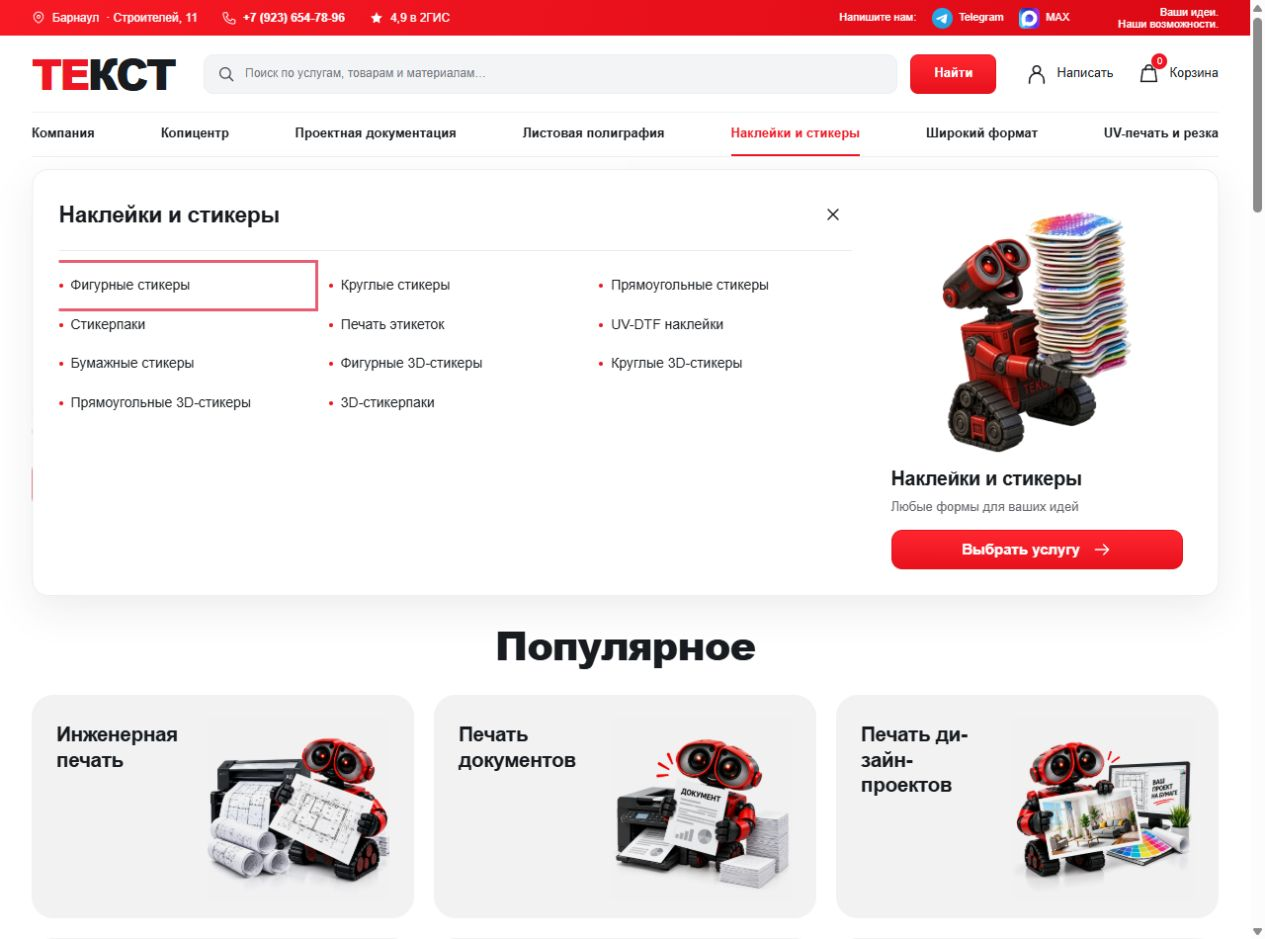
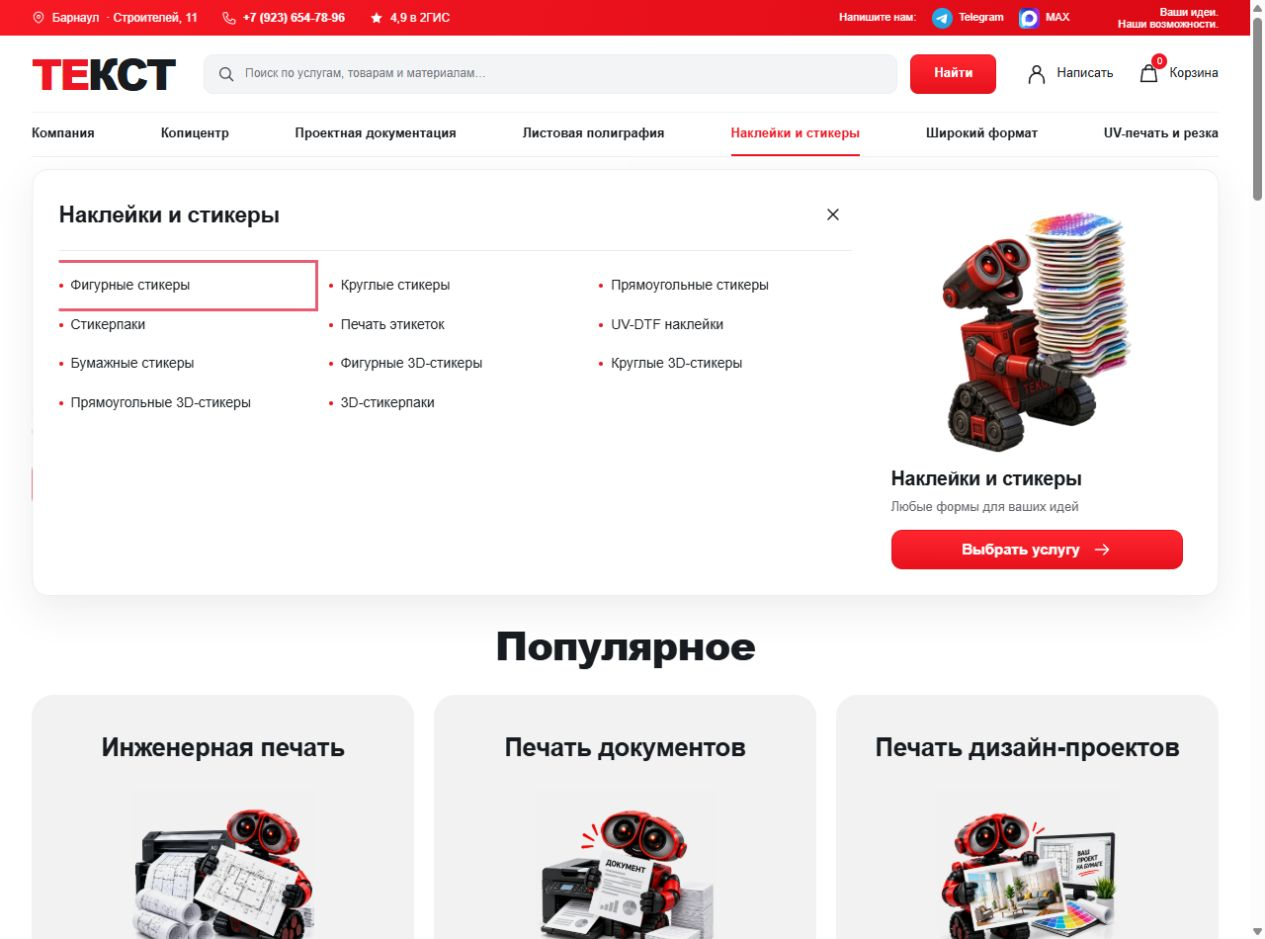
Center larger popular service titles without breaking words

diff --git a/homepage.css b/homepage.css
@@ -192,7 +192,7 @@ footer{background:linear-gradient(120deg,#242829,#1c2021);color:#fff;padding:24p
 .featured-section{margin-top:40px;margin-bottom:34px}
 .featured-section>h2{text-align:center;font-size:40px;letter-spacing:-1px;margin-bottom:28px}
 .featured-grid{display:grid;grid-template-columns:repeat(3,minmax(0,1fr));gap:20px}
-.featured-card{display:grid;grid-template-columns:minmax(0,.42fr) minmax(0,.58fr);gap:6px;align-items:stretch;text-align:left;background:#f2f2f2;border:1px solid transparent;border-radius:22px;height:226px;padding:22px 18px 18px 24px;min-width:0;transition:background .25s,border-color .25s,box-shadow .25s,transform .25s}
+.featured-card{display:grid;grid-template-columns:minmax(0,1fr);grid-template-rows:64px minmax(0,1fr);gap:10px;align-items:stretch;text-align:center;background:#f2f2f2;border:1px solid transparent;border-radius:22px;height:300px;padding:20px;min-width:0;transition:background .25s,border-color .25s,box-shadow .25s,transform .25s}
 .featured-card:focus-visible{background:#fff6f6;border-color:#e8a5ab;box-shadow:0 12px 26px #a52c3014;transform:translateY(-4px)}
 @media(hover:hover){
   .featured-card:hover{background:#fff6f6;border-color:#e8a5ab;box-shadow:0 12px 26px #a52c3014;transform:translateY(-4px)}
@@ -201,9 +201,9 @@ footer{background:linear-gradient(120deg,#242829,#1c2021);color:#fff;padding:24p
 }
 .featured-card:active{transform:translateY(-1px) scale(.985);box-shadow:0 4px 12px #a52c3010}
 .featured-card:focus-visible{outline:3px solid var(--red);outline-offset:4px}
-.featured-copy{display:flex;flex-direction:column;align-items:flex-start;gap:10px;min-width:0;padding-top:4px}
-.featured-name{font-size:21px;line-height:1.2;letter-spacing:-.5px;font-weight:600;overflow-wrap:normal;hyphens:auto}
-.featured-name{transition:color .25s}
+.featured-copy{display:flex;align-items:center;justify-content:center;min-width:0}
+.featured-name{font-size:26px;line-height:1.2;letter-spacing:-.4px;font-weight:700;text-wrap:balance;overflow-wrap:normal;word-break:normal;hyphens:none;transition:color .25s}
+.featured-word{display:inline-block;white-space:nowrap}
 .featured-art{display:block;position:relative;min-width:0;min-height:0;width:100%;padding:0}
 .featured-art img{position:absolute;inset:0;display:block;object-fit:contain;object-position:center;width:100%;height:100%;max-height:100%;mix-blend-mode:multiply;transition:transform .3s}
 .featured-card:focus-visible .featured-art img{transform:translateY(-2px) scale(1.045) rotate(-1.5deg)}
@@ -213,8 +213,8 @@ footer{background:linear-gradient(120deg,#242829,#1c2021);color:#fff;padding:24p
 .service-summary .dialog-intro{margin-bottom:0}
 @media(max-width:1150px){
   .hero-art{height:390px}
-  .featured-card{height:220px;padding:20px 14px 16px 21px;gap:3px}
-  .featured-name{font-size:19px}
+  .featured-card{height:288px;padding:18px}
+  .featured-name{font-size:24px}
   .featured-grid{gap:16px}
   .calculator-art{height:220px}
 }
@@ -222,8 +222,8 @@ footer{background:linear-gradient(120deg,#242829,#1c2021);color:#fff;padding:24p
   .hero-art{height:350px}
   .featured-section>h2{font-size:34px}
   .featured-grid{grid-template-columns:repeat(2,minmax(0,1fr))}
-  .featured-card{height:216px;padding:22px 18px 18px 24px}
-  .featured-name{font-size:21px}
+  .featured-card{height:300px;padding:20px}
+  .featured-name{font-size:26px}
   .calculator-art{height:200px}
   .calculator-banner{min-height:220px}
 }
@@ -233,8 +233,8 @@ footer{background:linear-gradient(120deg,#242829,#1c2021);color:#fff;padding:24p
   .featured-section{margin-top:30px;margin-bottom:26px}
   .featured-section>h2{font-size:30px;margin-bottom:20px}
   .featured-grid{grid-template-columns:1fr;gap:14px}
-  .featured-card{grid-template-columns:minmax(0,.42fr) minmax(0,.58fr);height:204px;padding:21px 17px 17px 22px;border-radius:20px;gap:4px}
-  .featured-name{font-size:20px}
+  .featured-card{height:286px;padding:18px;border-radius:20px;gap:8px}
+  .featured-name{font-size:25px}
   .calculator-banner{display:grid;grid-template-columns:58% minmax(0,42%);min-height:0}
   .calculator-copy{padding:20px 0 20px 17px}
   .calculator-copy h2{font-size:22px;overflow-wrap:normal;hyphens:auto}
@@ -254,8 +254,8 @@ footer{background:linear-gradient(120deg,#242829,#1c2021);color:#fff;padding:24p
   .topbar-socials .messenger-logo{width:18px;height:18px}
 }
 @media(max-width:360px){
-  .featured-card{height:190px;padding:18px 12px 14px 17px}
-  .featured-name{font-size:18px}
+  .featured-card{height:270px;padding:16px;grid-template-rows:56px minmax(0,1fr)}
+  .featured-name{font-size:23px}
   .calculator-copy h2{font-size:19px}
   .calculator-lead{font-size:12px}
   .calculator-copy>p:not(.calculator-lead){font-size:11px}

diff --git a/app.js b/app.js
@@ -113,7 +113,7 @@
   $('#header').addEventListener('focusout',event=>{if(!$('#header').contains(event.relatedTarget))menuCloseTimer=setTimeout(closeMenu,220);});
   $('#footer-services').innerHTML=categories.map(c=>`<button data-action="catalog" data-category="${escape(c.name)}">${escape(c.name)}</button>`).join('');
   function renderPopular() {
-    $('#popular-grid').innerHTML=popular.filter(p=>p.record).map(p=>`<button class="featured-card" data-service="${p.id}" aria-label="${escape(p.name)}"><span class="featured-copy"><span class="featured-name">${escape(p.name)}</span></span><span class="featured-art"><img src="${imageFor(p.record)}" alt="${escape(p.name)} — иллюстрация студии ТЕКСТ" width="720" height="720" loading="lazy"></span></button>`).join('');
+    $('#popular-grid').innerHTML=popular.filter(p=>p.record).map(p=>`<button class="featured-card" data-service="${p.id}" aria-label="${escape(p.name)}"><span class="featured-copy"><span class="featured-name">${p.name.split(/\s+/).map(word=>`<span class="featured-word">${escape(word)}</span>`).join(' ')}</span></span><span class="featured-art"><img src="${imageFor(p.record)}" alt="${escape(p.name)} — иллюстрация студии ТЕКСТ" width="720" height="720" loading="lazy"></span></button>`).join('');
   }
   function renderCatalogList(query='',category='') {
     const normalized=query.toLowerCase().replaceAll('ё','е').trim();

diff --git a/README.md b/README.md
@@ -2,7 +2,7 @@
 
 Главная страница обновлена 5 октября 2026 по выбранному пользователем референсу `Пример для категории - Наклейки и стикеры1.png`. Оригиналы документов и изображений сохранены без изменений. Предыдущая версия страницы сохранена в `.work/homepage-before-20261005/`.
 
-После уточнения пользователя добавлен раздел «Популярное» по новому примеру: светло-серые горизонтальные карточки, название слева, полная иллюстрация справа. Используются все 12 отдельных изображений из `сайт/раздел популярное/*1.png`. Версия до этого изменения сохранена в `.work/homepage-before-popular/`.
+Раздел «Популярное» использует светло-серые карточки с крупным жирным названием по центру над иллюстрацией. Названия переносятся только между словами, включая сохранение целиком слов с дефисом. Используются все 12 отдельных изображений из `сайт/раздел популярное/*1.png`. Версия до добавления этого раздела сохранена в `.work/homepage-before-popular/`.
 
 Последнее уточнение: «Популярные направления» удалены, оставлен только новый раздел «Популярное». Первый экран использует `assets/hero-screenshot.webp` — отдельную иллюстрацию, воссозданную встроенным image_gen по скриншоту пользователя с роботом, листом «Большие идеи начинаются с печати» и коробкой. В калькуляторах оставлены заголовок, одна короткая строка и кнопка расчёта визиток. Версия перед этими правками находится в `.work/homepage-before-cleanup/`.
 
@@ -60,6 +60,8 @@ npm run dev
 Для нового раздела дополнительно проверены ширины 320, 390, 768, 1024 и 1280 пикселей: все 12 карточек присутствуют, изображения загружены, имеют `contain` и не выходят за свои контейнеры. Проверены открытие фигурных стикеров, переход к расчету визиток и изображение брошюровки. Ошибок JavaScript и загрузки ресурсов нет. Превью: `preview/popular-desktop.png`, `preview/popular-mobile.png`, `preview/binding-service.png`.
 
 После последнего уточнения на этих пяти ширинах проверено: ровно один раздел «Популярное», старый раздел направлений отсутствует, в калькуляторе одна строка описания, новая иллюстрация целиком помещается на экране. Проверена кнопка расчета визиток. Превью: `preview/home-cleanup-desktop.png`, `preview/hero-screenshot-desktop.png`, `preview/calculators-simple-mobile.png`.
+
+Крупные названия карточек проверены на ширинах 320, 390, 768, 1024 и 1280 пикселей: слова не разрываются, текст помещается в карточки, горизонтального переполнения нет. Проверено открытие услуги «Твёрдый переплёт дипломов». Превью: `preview/header-popular-cards.jpg` и `preview/popular-centered-mobile.jpg`.
 
 ## Файлы
 
